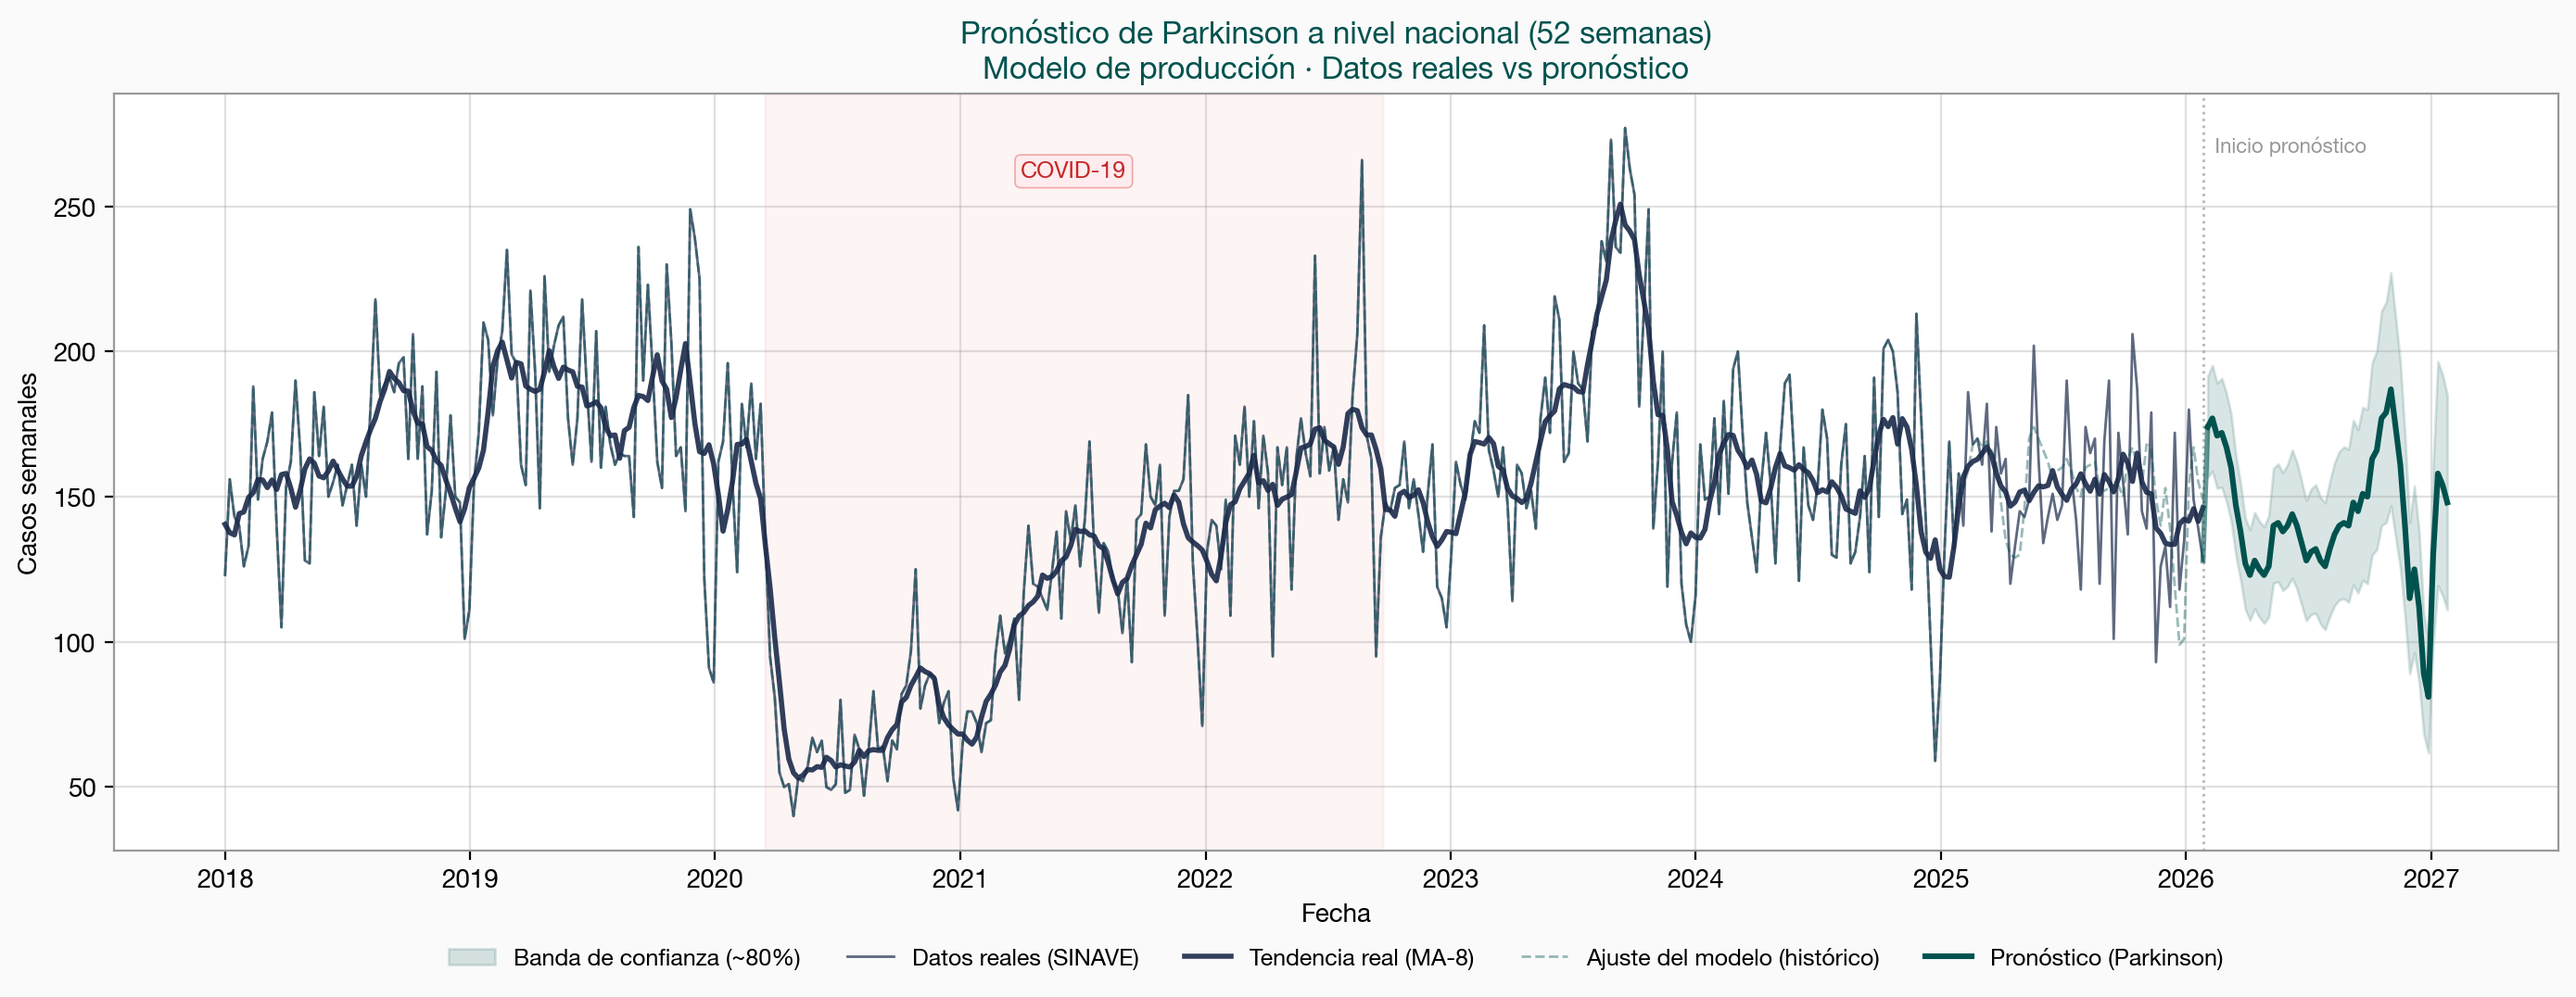
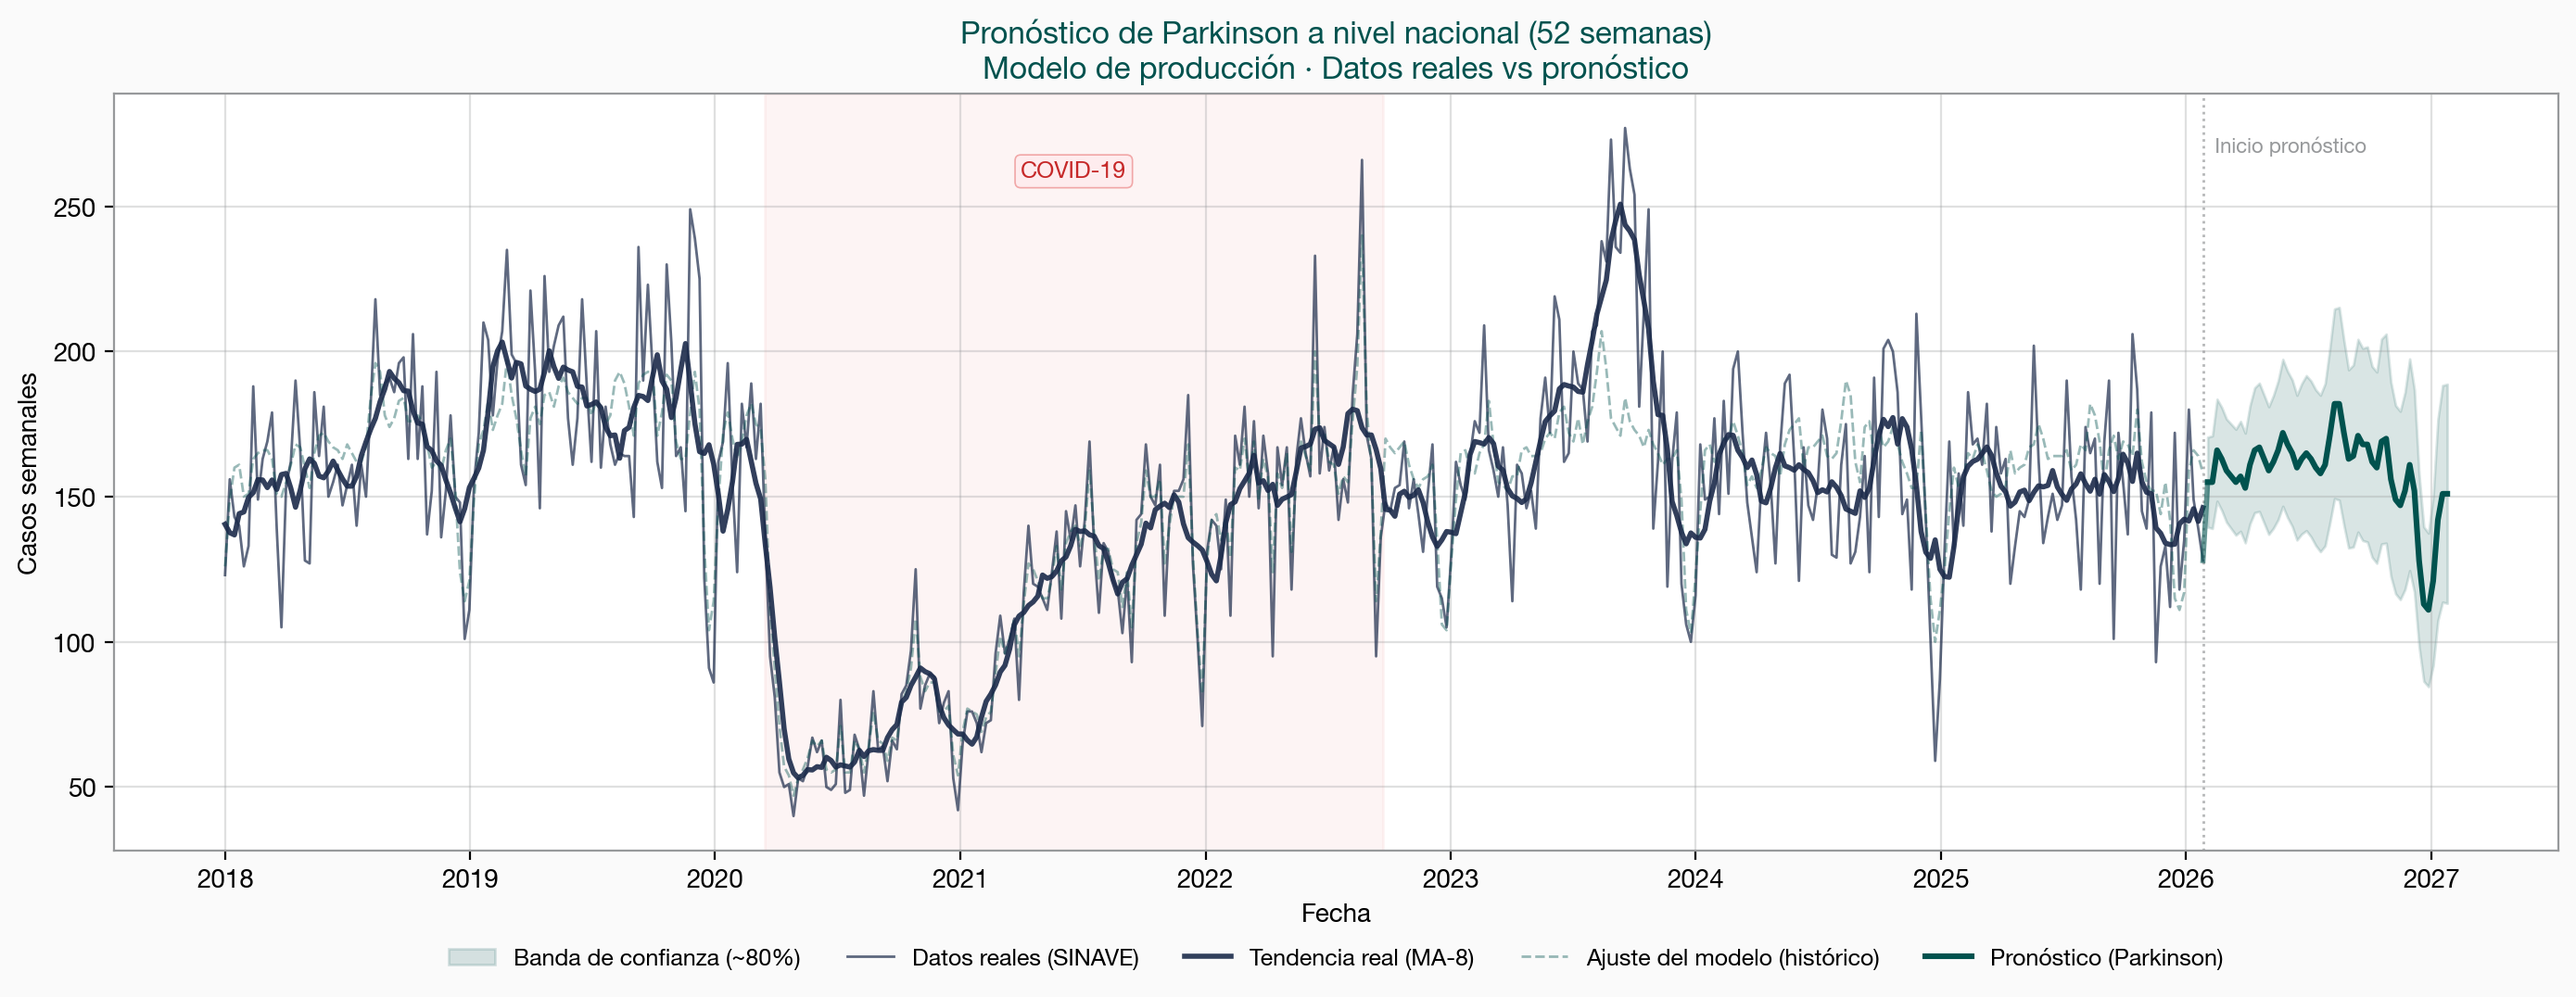
fix: corregir insightbox diagnósticos, semáforo y regenerar figuras
Avance6_01.tex:
- InsightBox L1224: 4 alertas Alzheimer + 1 Depresión Nacional hombres
  (antes decía que las 5 eran Alzheimer)
- Semáforo: Coahuila 2.2%→2.1%, Querétaro 9.8%→9.7%

ConclusionesClave:
- Regenerar 11 PNGs con datos alineados del Tableau actualizado

diff --git a/reports/Latex/Avance6_01.tex b/reports/Latex/Avance6_01.tex
@@ -1141,7 +1141,7 @@ La \tabref{tab:semaforo} clasifica los estados según la calidad del pronóstico
 \cellcolor{lightgreen} & Morelos & 1.4\% & 0.04 & \cellcolor{lightred} & Durango & 12.9\% & 0.41 \\
 \cellcolor{lightgreen} & Guanajuato & 1.9\% & 0.08 & \cellcolor{lightred} & Reg.\ Sur-Sureste & 11.5\% & 0.69 \\
 \cellcolor{lightgreen} & Baja California & 2.1\% & 0.09 & \cellcolor{lightred} & Tlaxcala & 11.5\% & 0.37 \\
-\cellcolor{lightgreen} & Coahuila & 2.2\% & 0.05 & \cellcolor{lightred} & Querétaro & 9.8\% & 0.30 \\
+\cellcolor{lightgreen} & Coahuila & 2.1\% & 0.05 & \cellcolor{lightred} & Querétaro & 9.7\% & 0.30 \\
 \cellcolor{lightgreen} & Veracruz & 2.3\% & 0.08 & & & & \\
 \cellcolor{lightgreen} & México & 2.5\% & 0.09 & & & & \\
 \cellcolor{lightgreen} & Hidalgo & 2.8\% & 0.11 & & & & \\
@@ -1221,7 +1221,7 @@ Sospechoso & 3 & \smape{} train anormalmente bajo; revisar features \\
 \end{table}
 
 \begin{insightbox}[Integridad del pipeline]
-La tasa de modelos saludables (OK en ambos diagnósticos) es del \textbf{98.5\%} (328/333). Los 5 modelos con alertas corresponden a series de Alzheimer con incidencia $<$2 casos/semana, donde el bajo volumen amplifica las métricas de diagnóstico sin implicar un problema real.
+La tasa de modelos saludables (OK en ambos diagnósticos) es del \textbf{98.5\%} (328/333). Los 5 modelos con alertas incluyen 4 series de Alzheimer con incidencia $<$2 casos/semana (3 de BCS con overfitting N/D y leakage sospechoso, 1 de CDMX con overfitting moderado) y 1 serie de Depresión Nacional hombres con overfitting alto (2.0$\times$).
 \end{insightbox}
 
 \newpage
